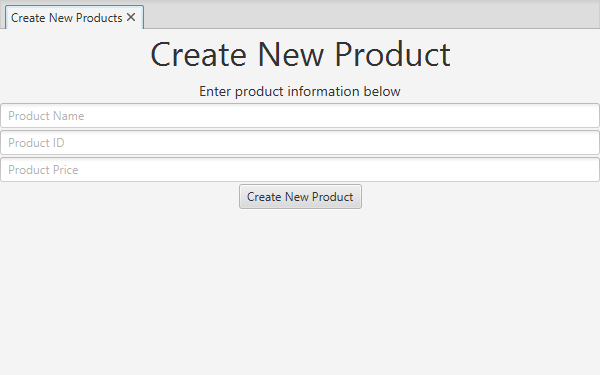
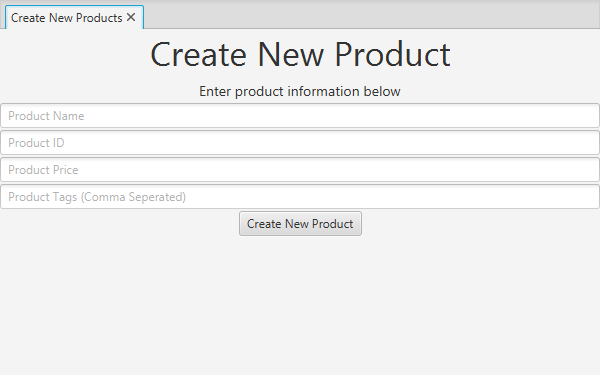
Sprint 2 User Documentation
Also put the logo everywhere because I can.

diff --git a/docs/views/sellinv.md b/docs/views/sellinv.md
@@ -3,20 +3,59 @@
 
 The *Sell Inventory* view will allow the sale of existing inventory.
 
-In order to add an item to the order, two pieces of data are needed:
+## Customer Selection
+To start an invoice, start by selecting a customer. Click the *Select Customer*
+ button to open the view to do this.
 
-* **Quantity:** The number of items of this specific product that the customer is ordering.
-* **Product ID:** The unique ID for the product that is being sold.
+![Select Customer sub-view][2]
 
-When both have been input into their respective two boxes at the top of the view,
- clicking *Add item* or pressing enter with the cursor in the *ID* text field will
- add the item to the order, so long as the quantity and product ID are valid. The
+A list of customers currently stored in the database is displayed. If the customer
+ being sold to is in this list, double-clicking on their line in the table will
+ result in the customer being selected and the Customer Selection view being closed.
+ The customer's name will be displayed in the text field next to the *Select Customer*
+ button on the Sell Inventory tab.
+
+The text field above the table in this view is a search bar to help look for the
+ customer being sold to. As of right now, the bar supports searching based on
+ *Company Name*, *Person's Name*, and *Phone Number*.
+
+### Create New Customer
+In the event that the customer being sold to isn't already in the database, clicking
+ on the *Create New Customer* button within the Customer Selection sub-view will open
+ will open a forum that will allow the creation of a new customer.
+
+![Create Customer sub-view][3]
+
+This forum supports creating a customer with the following information:
+
+* **Name:** The customer's name. *Required*
+* **Company:** The company that the customer represents.
+* **Phone Number:** The phone number for the customer.
+* **Fax Number:** The fax number for the customer.
+* **Address:** The address for the customer.
+
+After filling in the information, clicking *Create* will create the customer in
+ the database and automatically fill in that customer in the Sell Inventory view.
+ This will also close the Create Customer and Select Customer sub-views automatically.
+
+## Adding Products
+To add products to the invoice, the following information is supported:
+
+* **Quantity:** The number of items of this specific product that the customer is ordering. *Required*
+* **Product ID:** The unique ID for the product that is being sold. *Required*
+* **Unit Price:** A manual override of the unit-price for an item. Allows for
+ one-time discounts to be applied on a per-item basis.
+
+When the information has been supplied, clicking *Add Item* or pressing enter will
+ add the item to the order, so long as the information provided is valid. The
  program will automatically calculate the total price for each line item, and keep
  a running total at the bottom of the view.
 
-**NOTE: As of right now, it is not possible to delete items from the list. If you**
- **want to remove an item from the order, close and reopen the view.**
+## Removing Products
+To remove a line item from the invoice, click on it in the Table, then click the
+ *Delete Item* button, right below the *Add Item* button.
 
+## Completing the Invoice
 Once the order is complete, clicking on *Complete Order* will create an invoice
  that will be stored in the database, and the on-hand quantity will be detracted.
 
@@ -24,3 +63,5 @@ Once the order is complete, clicking on *Complete Order* will create an invoice
  **This will be implemented in a later version.**
 
 [1]: ../img/sellinv.png "Sell Inventory tab"
+[2]: ../img/selectCustomer.png "Select Customer sub-view"
+[3]: ../img/createCustomer.png "Create Customer sub-view"

diff --git a/docs/views/viewcust.md b/docs/views/viewcust.md
@@ -1,0 +1,35 @@
+# View Customers
+![View Customers tab][1]
+
+The *View Customers* view will display all of the past customers in a single,
+ sortable table.
+
+The table currently has the following six columns:
+
+* **Company Name:** The name of the company a certain customer represents.
+* **Person's Name:** The name of the customer.
+* **Phone Number:** The phone number for the customer.
+* **Address:** The customer's address.
+* **Fax Number:** The fax number for the customer.
+* **Past Sales:** A list of all Invoice numbers associated with the customer.
+
+**NOTE: As of right now, the *Past Sales* column does not populate upon a sale.**
+
+The table will automatically resize its columns so all of its elements are completely
+ visible. Due to the way this works, however, you may have to resize your screen to
+ see everything. It is recommended to use this program in maximized mode in order
+ to avoid problems like this one.
+
+Each column of the table can be sorted for convenience. Clicking once on any column
+ will sort the column in ascending order, and clicking it again will sort the column
+ in descending order.
+
+There is a search bar at the top of the view to help find customers within the database.
+ Currently, the table can be filtered based on *Company Name*, *Person's Name*,
+ and *Phone Number*.
+
+Customers cannot be created from this view; they can be created from the [Sell Inventory][2]
+ view.
+
+[1]: ../img/viewcust.png "View Customers tab"
+[2]: sellinv.md

diff --git a/docs/views/receiveinv.md b/docs/views/receiveinv.md
@@ -1,8 +1,7 @@
-# Update/Receive Inventory
-![Update/Receive Inventory view][1]
+# Update Products
+![Update Products view][1]
 
-The *Update/Receive Inventory* view allows the addition of on-hand quantity of
- each product.
+The *Update Products* view allows the addition of on-hand quantity of each product.
 
 The left hand side of the view provides a small version of the [View Inventory][2]
  view. It is meant to be a convenience to see what products exist in the system
@@ -19,12 +18,12 @@ To add quantity to a product, use the right hand side of the window, and provide
 
 After entering this information, and as long as the product ID and quantity are
  valid, hitting *Enter* on your keyboard while the cursor is in the *Qty to Add*
- text field, the product's quantity will be updated. You can tell that the change
+ text field will update the quantity of the product. You can tell that the change
  has been made if, after hitting *Enter*, the two text fields clear their values.
 
 **NOTE: As of right now, there is no button to click to add the quantity to the**
  **product. Hitting *Enter* while the cursor is in the *Qty to Add* text field**
  **will add the quantity to the specified product.**
 
-[1]: ../img/receiveinv.png "Update/Receive Inventory view"
+[1]: ../img/receiveinv.png "Update Products view"
 [2]: viewinv.md

diff --git a/docs/views/createproducts.md b/docs/views/createproducts.md
@@ -3,15 +3,19 @@
 
 The *Create New Products* view allows the creation of new products in the database.
 
-In order to create a new product, three pieces of information are needed:
+When creating a new product, the following fields are provided:
 
-* **Name:** The human-friendly name of the product, used for displaying.
-* **ID:** A unique ID that can be used to reference this item in the database.
-* **Price:** The unit price for this product.
+* **Name:** The human-friendly name of the product, used for displaying. *Required*
+* **ID:** A unique ID that can be used to reference this item in the database. *Required*
+* **Price:** The unit price for this product. *Required*
+* **Tags:** A comma-separated list of tags associated with the item. Should be used
+ as categories or grouping keywords with other products.
+
+**NOTE: As of right now, the tags are not saved to the database.**
 
 After entering all of this information into their respective text fields, clicking
  *Create New Product* will create the product in the database. It will start out
- with a quantity of 0. To increase its quantity, use the [Update/Receive Inventory][2]
+ with a quantity of 0. To increase its quantity, use the [Update Products][2]
  view.
 
 [1]: ../img/createProducts.png "Create New Products view"

diff --git a/docs/views/viewinv.md b/docs/views/viewinv.md
@@ -11,12 +11,22 @@ The table currently has the following four columns:
 * **Price:** The unit price for the product.
 * **Quantity:** The current quantity on-hand for that product.
 
+The table will automatically resize its columns so all of its elements are completely
+ visible. Due to the way this works, however, you may have to resize your screen to
+ see everything. It is recommended to use this program in maximized mode in order
+ to avoid problems like this one.
+
 Each column of the table can be sorted for convenience. Clicking once on any column
  will sort the column in ascending order, and clicking it again will sort the column
  in descending order.
 
+There is a search bar at the top of the view to help find items within the inventory.
+ Currently, the table can be filtered based on *ID* and *Name*.
+
+**As of right now, the Tag Filtering bar below the Search bar does not work.**
+
 No data can be changed from this view. To add new products, visit [Create New Products][2].
- To add quantity, visit [Update/Receive Inventory][3]. To sell inventory, visit [Sell Inventory][4].
+ To add quantity, visit [Update Products][3]. To sell inventory, visit [Sell Inventory][4].
 
 [1]: ../img/viewinv.png "View Inventory tab"
 [2]: createproducts.md

diff --git a/docs/basicuse.md b/docs/basicuse.md
@@ -1,8 +1,8 @@
 # Basic Usage
 
-**NOTE: As it currently stands, the program does *NOT* connect to an external database.**
- **The program will *NOT* currently save any changes between runs. When the database**
- **protocol is implemented, you will need to specify your own database to connect to.**
+**NOTE: As it currently stands, the program *ONLY* connects to our test database.**
+ **On a later version of the program, you will have to specify your own database**
+ **to use.**
 
 Upon opening the program for the first time, you will notice a seemingly blank screen.
  All parts of the program are contained in *views* in the `Actions` menu in the menu
@@ -16,7 +16,7 @@ Upon opening the program for the first time, you will notice a seemingly blank s
 You may only have one tab of each view open at once. To close any of the tabs,
  click on the *x* in the tab that you want to close.
 
-To learn more about any of the views, choose its corresponding help page in the sidebar. 
+To learn more about any of the views, choose its corresponding help page in the sidebar.
 
 [1]: img/menubar.png "Menu Bar with Actions Menu expanded"
 [2]: img/tabview.png "Open Tabs"

diff --git a/README.md b/README.md
@@ -1,6 +1,8 @@
 # TInventory
 [![Documentation Status](https://readthedocs.org/projects/tinventory/badge/?version=latest)](http://tinventory.readthedocs.io/en/latest/?badge=latest)
 
+![TInventory logo](docs/img/logo.png)
+
 Our Inventory Management Program for Team Software Project
 
 ## Table of Contents

diff --git a/docs/index.md b/docs/index.md
@@ -1,4 +1,7 @@
 # TInventory User Manual
+![TInventory logo][1]
 
 This is the user manual for the TInventory program. Use the sidebar to navigate
  to different sections of the manual.
+
+[1]: img/logo.png
